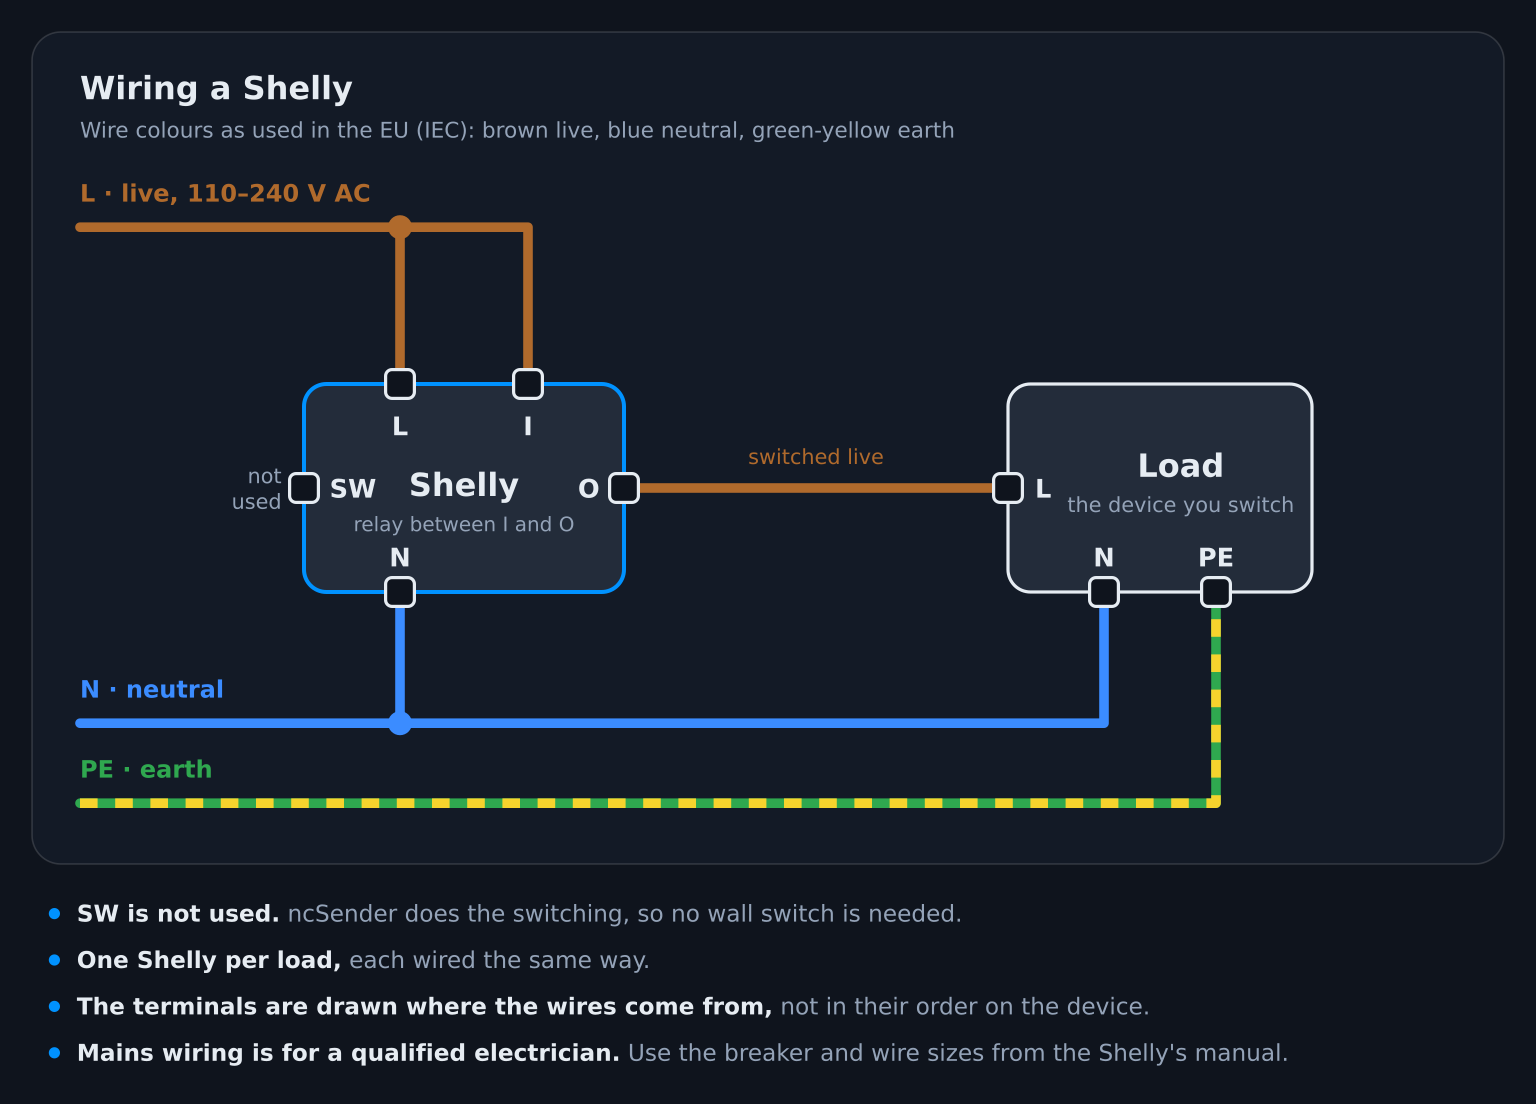
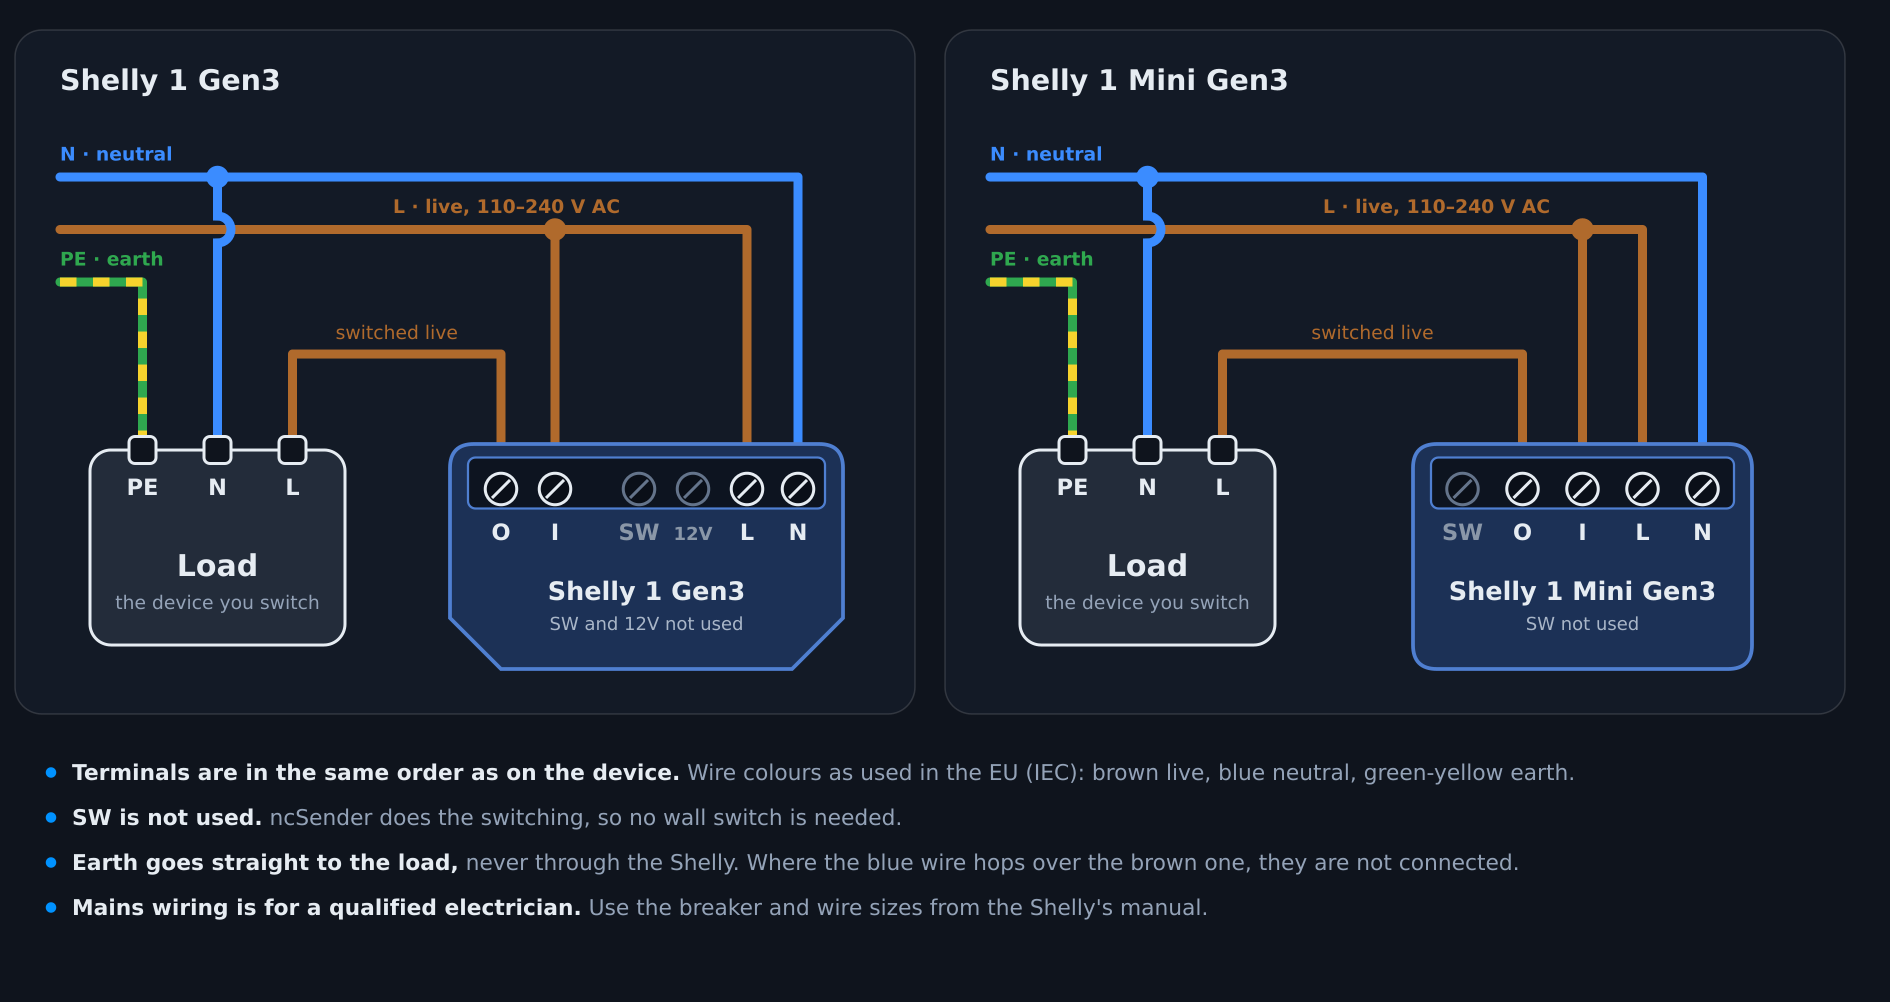
README: wiring diagram with both Shelly models and their real terminal order
Claude-Session: https://claude.ai/code/session_019AaE9R7vvAopES3KYYf7GG

Changed region(s): [[0.0312, 0.0619, 0.9375, 0.9591]]

diff --git a/README.md b/README.md
@@ -29,9 +29,9 @@ Use outputs with nothing wired to them: the plugin turns them on by itself.
 
 #### Wiring
 
-![Wiring a Shelly relay in EU cable colours: brown live to L and I, O to the load, blue neutral, green-yellow earth straight to the load. The SW terminal is not used.](docs/wiring.png)
+![Wiring a Shelly 1 Gen3 and a Shelly 1 Mini Gen3 in EU cable colours, with the terminals in the same order as on each device: brown live to L and I, O to the load, blue neutral, green-yellow earth straight to the load. SW is not used.](docs/wiring.png)
 
-Each Shelly is wired the same way. No wall switch is needed: the SW terminal stays empty.
+No wall switch is needed: the SW terminal stays empty.
 
 #### Good to know
 
